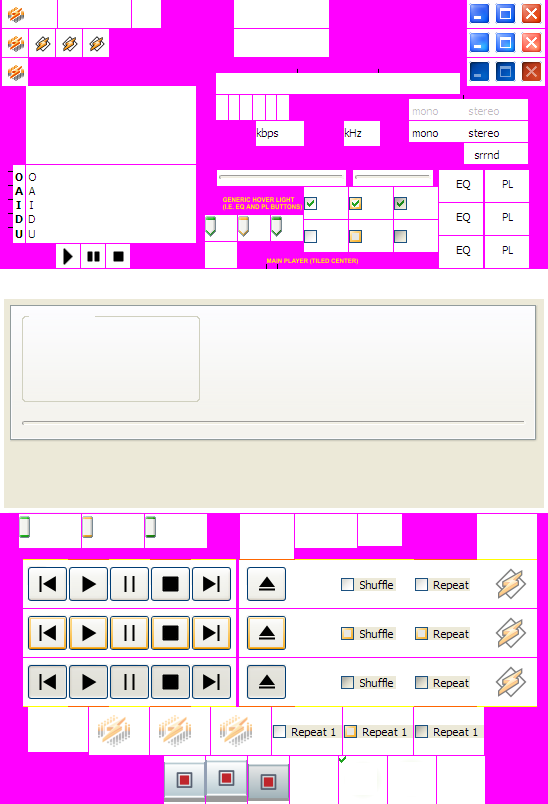
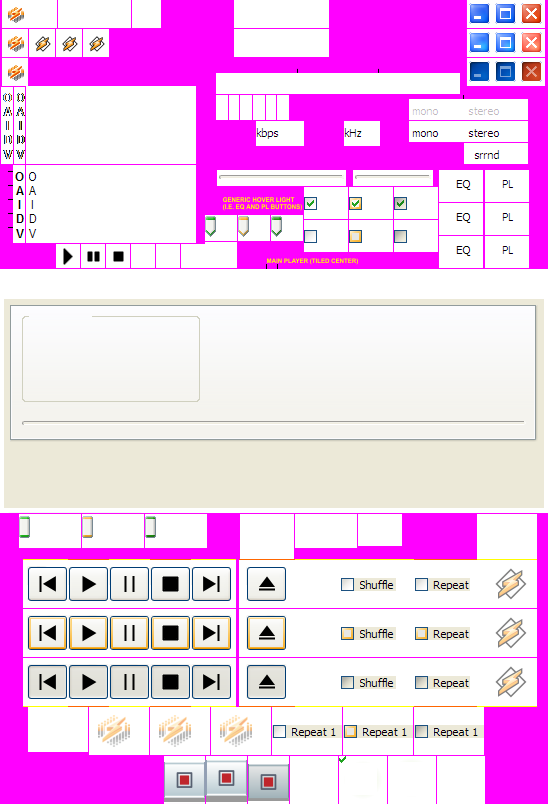
Added dark display, O and A buttons need fixing in dark mode

Changed region(s): [[0.0, 0.0933, 0.062, 0.3109], [0.2172, 0.2799, 0.3723, 0.342]]

diff --git a/scripts/visualizer.m b/scripts/visualizer.m
@@ -13,13 +13,18 @@ Function setColoroscRange (String rgb, int start, int end);									//set oscill
 Function setColoroscOdd (String rgb);														//set odd oscilloscope color					rgb value("0,255,127")
 Function setColoroscEven (String rgb);														//set even oscilloscope color					rgb value("0,255,127")
 
+Function darkDisplay(Boolean visible);
+
 Global Container containerMain;
 Global Container containerPL;
 Global Layout layoutPL, layoutMainNormal, layoutMainShade;
-Global Group NormalGroupMain, NormalGroupDisplay, ShadeGroupMain, ShadeGroupDisplay;
+Global Group NormalGroupMain, NormalGroupDisplay, ShadeGroupMain, ShadeGroupDisplay, TDSongTitleGroup;
 Global Vis visualizer, visualizershade, visualizerpl;
 Global Layer wmpblackness;
 Global Button OAIDUBtnUE1, OAIDUBtnUE2, OAIDUBtnUE3;
+Global GuiObject DisplayTime;
+Global Status DisplayStatusIcons;
+Global Text TDText;
 
 Global PopUpMenu visMenu;
 Global PopUpMenu specmenu;
@@ -30,9 +35,14 @@ Global PopUpMenu stylemenu;
 Global PopUpMenu colmenu;
 
 Global Int currentMode, a_falloffspeed, p_falloffspeed, a_coloring, v_color;
-Global Boolean show_peaks;
+Global Boolean show_peaks, dark_display;
 Global layer Trigger, HideForVic, TriggerBlocker, TriggerBlockerShade;
 
+//OAIDU mess
+Global GuiObject OAIDUo;
+Global Layer OAIDUon, OAIDUoh, OAIDUod;
+Global ToggleButton OAIDUa;
+Global Button OAIDUi, OAIDUd, OAIDUu;
 
 
 System.onScriptLoaded()
@@ -41,6 +51,7 @@ System.onScriptLoaded()
 	layoutMainNormal = containerMain.getLayout("normal");
 	NormalGroupMain = layoutMainNormal.findObject("player.normal.group.main");
 	NormalGroupDisplay = NormalGroupMain.findObject("player.normal.group.display");
+	TDSongTitleGroup = NormalGroupMain.findObject("player.timedisplay.songtitle");
 	OAIDUBtnUE1 = NormalGroupDisplay.findObject("OAIDU.buttons.U.menuentry1");
   OAIDUBtnUE2 = NormalGroupDisplay.findObject("OAIDU.buttons.U.menuentry2");
   OAIDUBtnUE3 = NormalGroupDisplay.findObject("OAIDU.buttons.U.menuentry3");
@@ -56,7 +67,6 @@ System.onScriptLoaded()
   containerPL = System.getContainer("PLEdit");
   layoutPL = containerPL.getLayout("normalpl");
 	visualizerpl = layoutPL.findObject("shade.vis");
-
 
 	Trigger = NormalGroupDisplay.findObject("player.vis.trigger");
 	TriggerBlocker = layoutPL.findObject("player.vis.blocker");
@@ -75,6 +85,25 @@ System.onScriptLoaded()
 	visualizerpl.setXmlParam("peakfalloff", integerToString(p_falloffspeed));
 	visualizerpl.setXmlParam("falloff", integerToString(a_falloffspeed));
 	
+	//display stuff
+	DisplayTime = NormalGroupDisplay.getObject("display.time");
+	DisplayStatusIcons = NormalGroupDisplay.getObject("status");
+	TDText = TDSongTitleGroup.getObject("player.timedisplay.text");
+
+	//oaidu stuff
+	OAIDUo = NormalGroupDisplay.getObject("OAIDU.buttons.O.m");
+	OAIDUon = NormalGroupDisplay.getObject("OAIDU.buttons.O.m");
+	OAIDUoh = NormalGroupDisplay.getObject("OAIDU.buttons.O.m");
+	OAIDUod = NormalGroupDisplay.getObject("OAIDU.buttons.O.m");
+
+	OAIDUa = NormalGroupDisplay.getObject("OAIDU.buttons.A");
+	OAIDUi = NormalGroupDisplay.getObject("OAIDU.buttons.I");
+	OAIDUd = NormalGroupDisplay.getObject("OAIDU.buttons.D");
+	OAIDUu = NormalGroupDisplay.getObject("OAIDU.buttons.U");
+
+	darkDisplay(dark_display);
+
+	
 
 	refreshVisSettings ();
 }
@@ -91,6 +120,7 @@ refreshVisSettings ()
 {
 	currentMode = getPrivateInt(getSkinName(), "Visualizer Mode", 1);
 	show_peaks = getPrivateInt(getSkinName(), "Visualizer show Peaks", 1);
+	dark_display = getPrivateInt(getSkinName(), "Dark Display", 0);
 	a_falloffspeed = getPrivateInt(getSkinName(), "Visualizer analyzer falloff", 3);
 	p_falloffspeed = getPrivateInt(getSkinName(), "Visualizer peaks falloff", 2);
 	a_coloring = getPrivateInt(getSkinName(), "Visualizer analyzer coloring", 0);
@@ -138,7 +168,6 @@ refreshVisSettings ()
 		visualizer.setXmlParam("colorallbands", "49,106,197");
 		visualizer.setXmlParam("colorbandpeak", "49,106,197");
 		setColorOsc("49,106,197");
-		wmpblackness.setXmlParam("alpha","0");
 		visualizer.setXmlParam("fps", "30");
 	}
 	if (v_color == 2)
@@ -166,7 +195,6 @@ refreshVisSettings ()
 		visualizer.setXmlParam("colorosc3", "181,189,189");
 		visualizer.setXmlParam("colorosc4", "160,170,175");
 		visualizer.setXmlParam("colorosc5", "148,156,165");
-		wmpblackness.setXmlParam("alpha","0");
 		visualizer.setXmlParam("fps", "30");
 	}
 	else if (v_color == 3)
@@ -174,7 +202,6 @@ refreshVisSettings ()
 		visualizer.setXmlParam("colorallbands", "0,176,32");
 		visualizer.setXmlParam("colorbandpeak", "32,32,255");
 		setColorosc("160,255,160");
-		wmpblackness.setXmlParam("alpha","253");
 		visualizer.setXmlParam("fps", "24");
 	}
 	else if (v_color == 4)
@@ -182,7 +209,6 @@ refreshVisSettings ()
 		visualizer.setXmlParam("colorallbands", "0,0,255");
 		visualizer.setXmlParam("colorbandpeak", "255,255,255");
 		setColorosc("160,255,160");
-		wmpblackness.setXmlParam("alpha","253");
 		visualizer.setXmlParam("fps", "24");
 	}
 	else if (v_color == 5)
@@ -190,10 +216,10 @@ refreshVisSettings ()
 		visualizer.setXmlParam("colorallbands", "255,165,0");
 		visualizer.setXmlParam("colorbandpeak", "255,0,0");
 		setColorosc("160,255,160");
-		wmpblackness.setXmlParam("alpha","253");
 		visualizer.setXmlParam("fps", "24");
 	}
 	setVis (currentMode);
+	darkDisplay(dark_display);
 }
 
 Trigger.onLeftButtonDown (int x, int y)
@@ -244,6 +270,7 @@ Trigger.onRightButtonUp (int x, int y)
 	visMenu.addCommand("Options:", 102, 0, 1);
 
 	visMenu.addCommand("Show Peaks", 101, show_peaks == 1, 0);
+	visMenu.addCommand("Dark Display", 103, dark_display == 2, 0);
 	pksmenu.addCommand("Slower", 200, p_falloffspeed == 0, 0);
 	pksmenu.addCommand("Slow", 201, p_falloffspeed == 1, 0);
 	pksmenu.addCommand("Moderate", 202, p_falloffspeed == 2, 0);
@@ -300,6 +327,13 @@ ProcessMenuResult (int a)
 		visualizershade.setXmlParam("peaks", integerToString(show_peaks));
 		visualizerpl.setXmlParam("peaks", integerToString(show_peaks));
 		setPrivateInt(getSkinName(), "Visualizer show Peaks", show_peaks);
+	}
+
+	else if (a == 103)
+	{
+		dark_display = (dark_display - 1) * (-1);
+		darkDisplay(dark_display);		//yeah i know
+		setPrivateInt(getSkinName(), "Dark Display", dark_display);
 	}
 
 	else if (a >= 200 && a <= 204)
@@ -371,7 +405,6 @@ ProcessMenuResult (int a)
 			visualizer.setXmlParam("colorallbands", "49,106,197");
 			visualizer.setXmlParam("colorbandpeak", "49,106,197");
 			setColorOsc("49,106,197");
-			wmpblackness.setXmlParam("alpha","0");
 			visualizer.setXmlParam("fps", "30");
 		}
 		if (v_color == 2)
@@ -399,7 +432,6 @@ ProcessMenuResult (int a)
 			visualizer.setXmlParam("colorosc3", "181,189,189");
 			visualizer.setXmlParam("colorosc4", "160,170,175");
 			visualizer.setXmlParam("colorosc5", "148,156,165");
-			wmpblackness.setXmlParam("alpha","0");
 			visualizer.setXmlParam("fps", "30");
 		}
 		else if (v_color == 3)
@@ -408,7 +440,6 @@ ProcessMenuResult (int a)
 			visualizer.setXmlParam("colorbandpeak", "32,32,255");
 
 			setColorosc("160,255,160");
-			wmpblackness.setXmlParam("alpha","253");
 			visualizer.setXmlParam("fps", "24");
 		}
 		else if (v_color == 4)
@@ -417,7 +448,6 @@ ProcessMenuResult (int a)
 			visualizer.setXmlParam("colorbandpeak", "255,255,255");
 
 			setColorosc("160,255,160");
-			wmpblackness.setXmlParam("alpha","253");
 			visualizer.setXmlParam("fps", "24");
 		}
 		else if (v_color == 5)
@@ -426,7 +456,6 @@ ProcessMenuResult (int a)
 			visualizer.setXmlParam("colorbandpeak", "255,0,0");
 
 			setColorosc("160,255,160");
-			wmpblackness.setXmlParam("alpha","253");
 			visualizer.setXmlParam("fps", "24");
 		}
 		setPrivateInt(getSkinName(), "Visualizer Color themes", v_color);
@@ -539,6 +568,84 @@ setColoroscEven(String rgb)
 	visualizer.setXmlParam("colorosc4", rgb);
 }
 
+darkDisplay(Boolean visible){
+	if(visible){
+		//dark display on
+
+		wmpblackness.setXmlParam("alpha","255");
+		DisplayTime.setXmlParam("color","WHITE");
+
+		DisplayStatusIcons.setXmlParam("stopBitmap","status.icon.stop.dark");
+		DisplayStatusIcons.setXmlParam("playBitmap","status.icon.play.dark");
+		DisplayStatusIcons.setXmlParam("pauseBitmap","status.icon.pause.dark");
+
+		TDText.setXmlParam("text","");
+		/*
+		//whatever i did here is not right
+		//send help
+		OAIDUo.setXmlParam("normal","OAIDU.buttons.O.n.dark");
+		OAIDUo.setXmlParam("hover","OAIDU.buttons.O.h.dark");
+		OAIDUo.setXmlParam("down","OAIDU.buttons.O.d.dark");
+
+		OAIDUon.setXmlParam("image","OAIDU.buttons.O.n.dark");
+		OAIDUoh.setXmlParam("image","OAIDU.buttons.O.h.dark");
+		OAIDUod.setXmlParam("image","OAIDU.buttons.O.d.dark");
+
+		OAIDUa.setXmlParam("image","OAIDU.buttons.A.dark.1.0");
+		OAIDUa.setXmlParam("hoverimage","OAIDU.buttons.A.dark.2.0");
+		OAIDUa.setXmlParam("downimage","OAIDU.buttons.A.dark.3.0");
+		*/
+		OAIDUi.setXmlParam("image","OAIDU.buttons.I.n.dark");
+		OAIDUi.setXmlParam("hoverimage","OAIDU.buttons.I.h.dark");
+		OAIDUi.setXmlParam("downimage","OAIDU.buttons.I.n.dark");
+
+		OAIDUd.setXmlParam("image","OAIDU.buttons.D.n.dark");
+		OAIDUd.setXmlParam("hoverimage","OAIDU.buttons.D.h.dark");
+		OAIDUd.setXmlParam("downimage","OAIDU.buttons.D.n.dark");
+
+		OAIDUu.setXmlParam("image","OAIDU.buttons.U.n.dark");
+		OAIDUu.setXmlParam("hoverimage","OAIDU.buttons.U.h.dark");
+		OAIDUu.setXmlParam("downimage","OAIDU.buttons.U.n.dark");
+		
+	}
+	else{
+		//dark display off
+
+		wmpblackness.setXmlParam("alpha","0");
+		DisplayTime.setXmlParam("color","BLACK");
+
+		DisplayStatusIcons.setXmlParam("stopBitmap","status.icon.stop");
+		DisplayStatusIcons.setXmlParam("playBitmap","status.icon.play");
+		DisplayStatusIcons.setXmlParam("pauseBitmap","status.icon.pause");
+
+		TDText.setXmlParam("text","Time Display");
+		/*
+		OAIDUo.setXmlParam("normal","OAIDU.buttons.O.n");
+		OAIDUo.setXmlParam("hover","OAIDU.buttons.O.h");
+		OAIDUo.setXmlParam("down","OAIDU.buttons.O.d");
+
+		OAIDUon.setXmlParam("image","OAIDU.buttons.O.n");
+		OAIDUoh.setXmlParam("image","OAIDU.buttons.O.h");
+		OAIDUod.setXmlParam("image","OAIDU.buttons.O.d");
+
+		OAIDUa.setXmlParam("image","OAIDU.buttons.A.1.0");
+		OAIDUa.setXmlParam("hoverimage","OAIDU.buttons.A.2.0");
+		OAIDUa.setXmlParam("downimage","OAIDU.buttons.A.3.0");
+		*/
+		OAIDUi.setXmlParam("image","OAIDU.buttons.I.n");
+		OAIDUi.setXmlParam("hoverimage","OAIDU.buttons.I.h");
+		OAIDUi.setXmlParam("downimage","OAIDU.buttons.I.n");
+
+		OAIDUd.setXmlParam("image","OAIDU.buttons.D.n");
+		OAIDUd.setXmlParam("hoverimage","OAIDU.buttons.D.h");
+		OAIDUd.setXmlParam("downimage","OAIDU.buttons.D.n");
+
+		OAIDUu.setXmlParam("image","OAIDU.buttons.U.n");
+		OAIDUu.setXmlParam("hoverimage","OAIDU.buttons.U.h");
+		OAIDUu.setXmlParam("downimage","OAIDU.buttons.U.n");
+		
+	}
+}
 
 setVis (int mode)
 {
